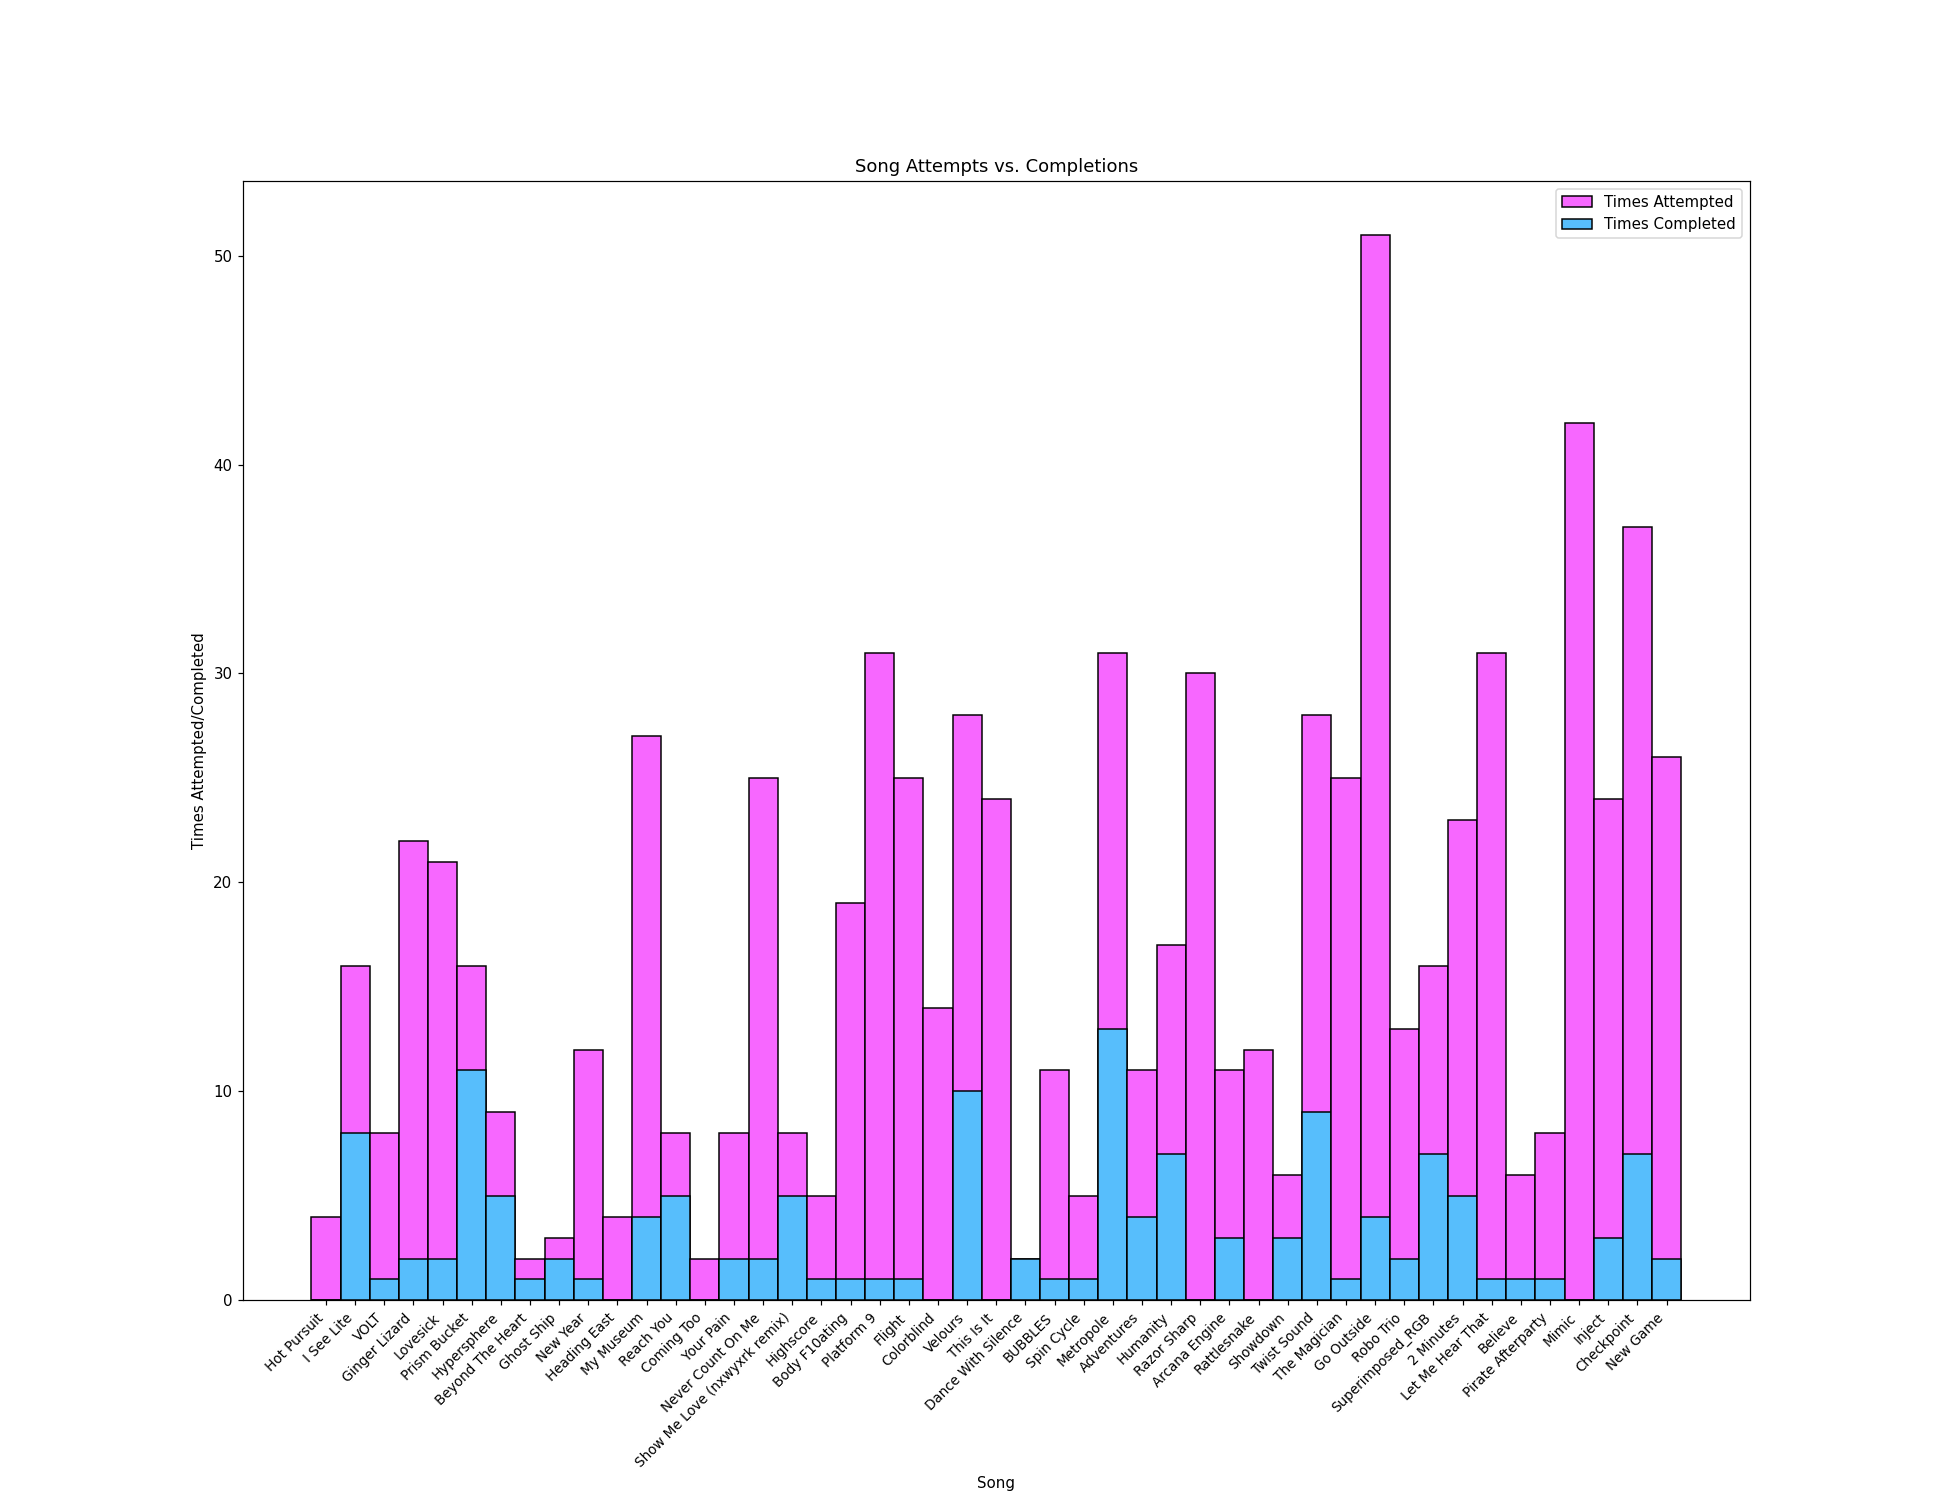
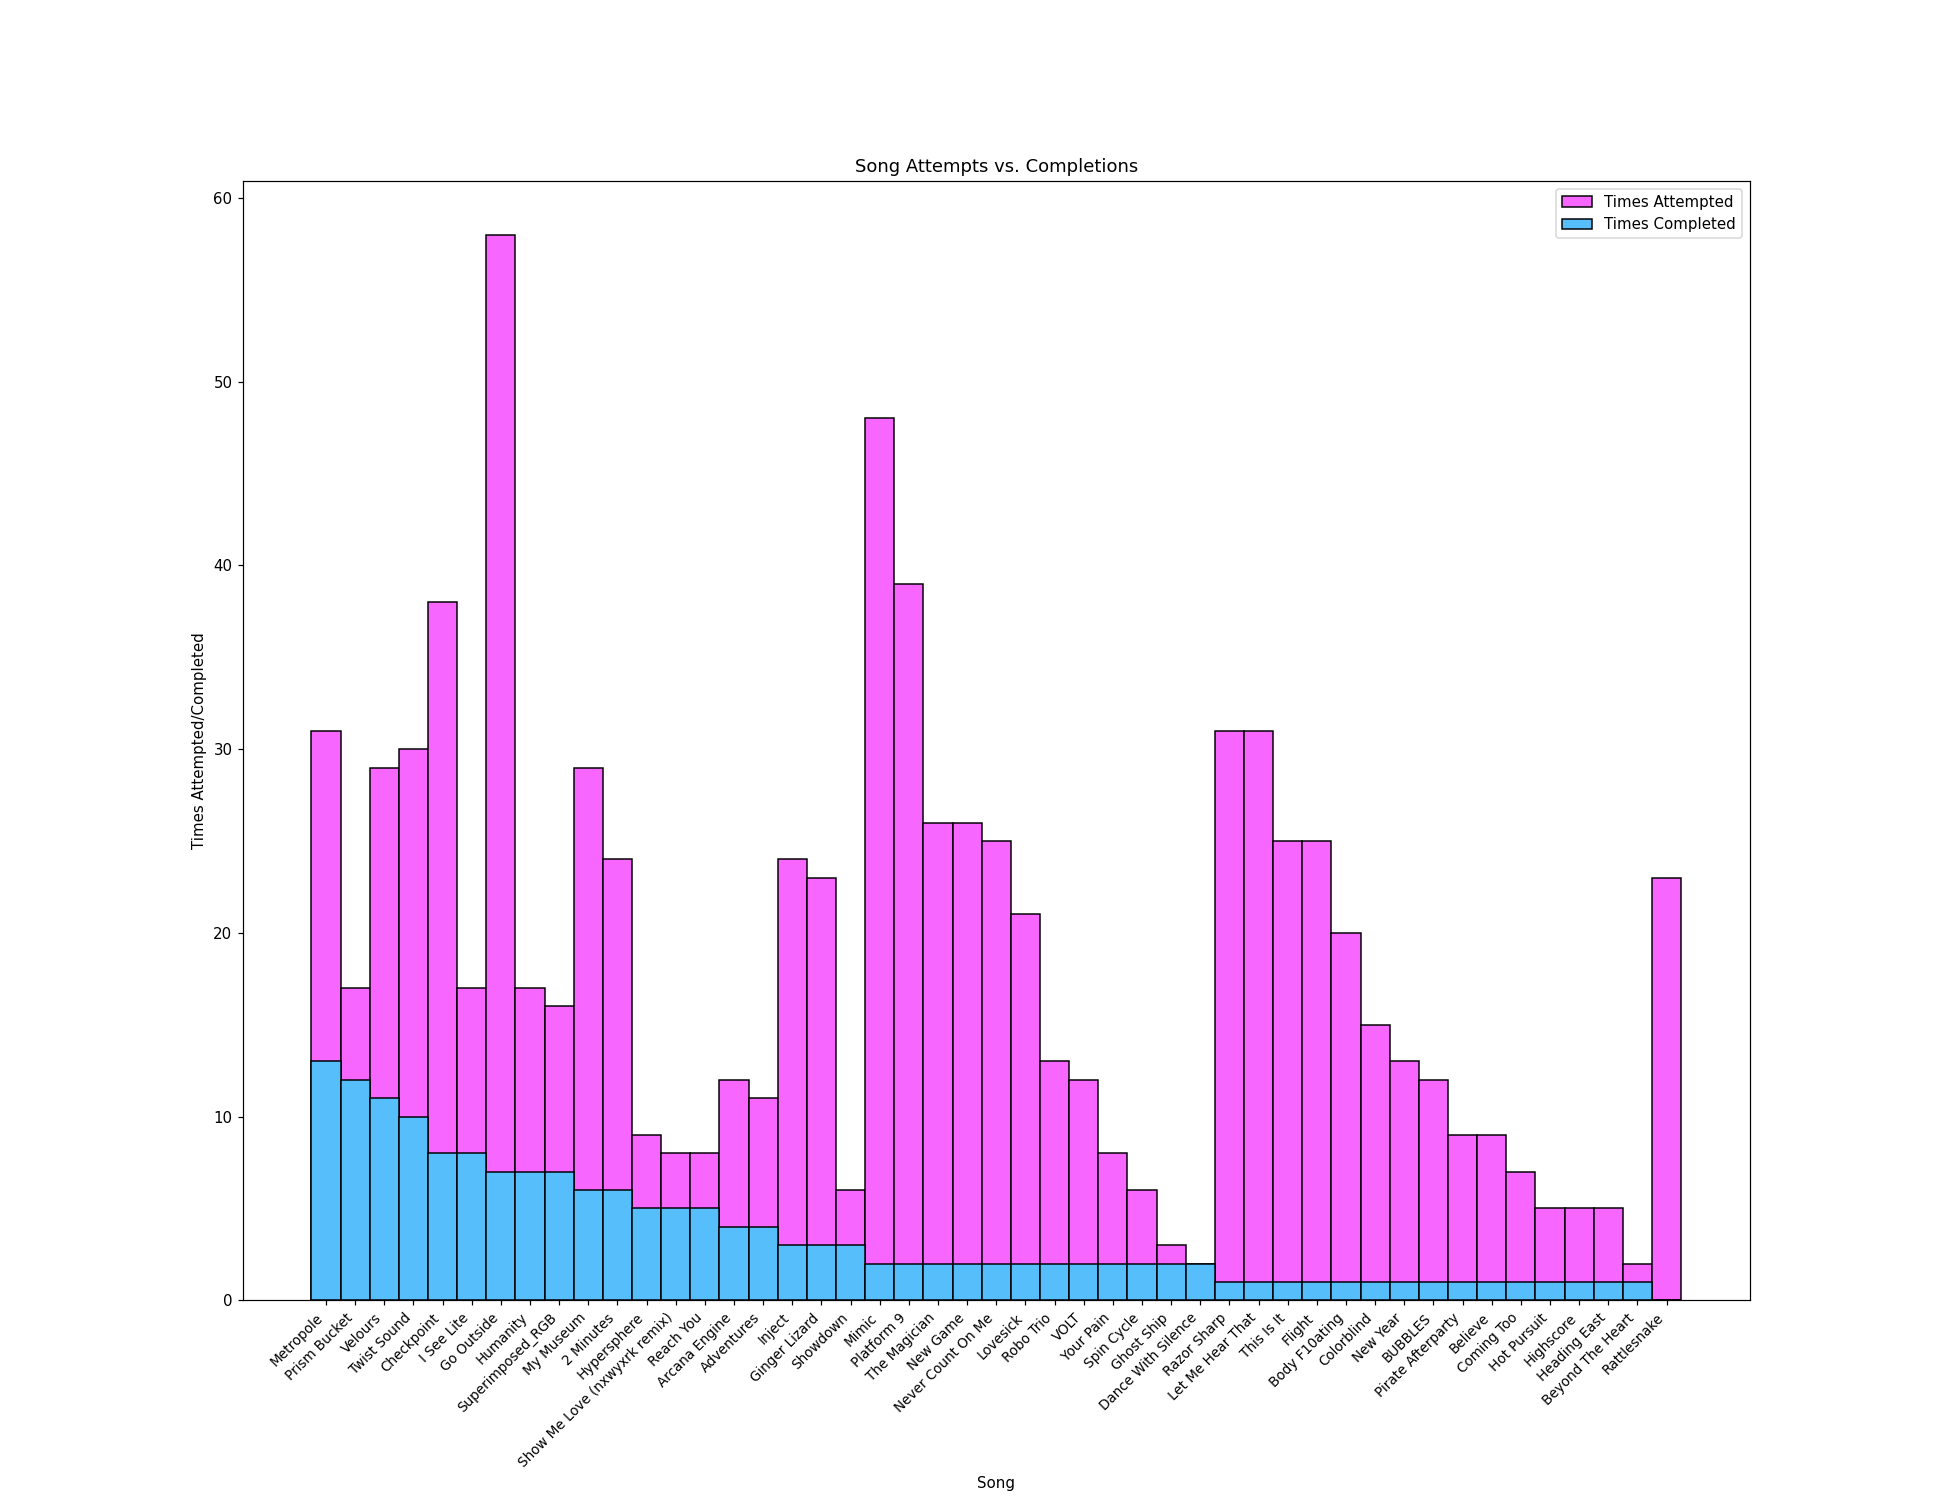
refactored much of the parsing code in order to add the ability to sort the graph by attempts or completions

Changed region(s): [[0.1543, 0.1554, 0.8642, 0.9325]]

diff --git a/templates/index.html b/templates/index.html
@@ -3,17 +3,22 @@
    <body>
       <form action = "" method = "POST"
          enctype = "multipart/form-data">
-         <input type = "file" name = "file" />
+         <input type = "file" name = "file" /><br><br>
          <input type = "radio" id="easy" name="difficulty" value="easy">
-         <label for="easy">Easy</label>
+         <label for="easy">Easy</label><br>
          <input type = "radio" id="medium" name="difficulty" value="medium">
-         <label for="medium">Medium</label>
+         <label for="medium">Medium</label><br>
          <input type = "radio" id="hard" name="difficulty" value="hard">
-         <label for="hard">Hard</label>
+         <label for="hard">Hard</label><br>
          <input type = "radio" id="expert" name="difficulty" value="expert">
-         <label for="expert">Expert</label>
+         <label for="expert">Expert</label><br>
          <input type = "radio" id="XD" name="difficulty" value="XD" checked>
-         <label for="XD">XD</label>
+         <label for="XD">XD</label><br>
+         <p>Sort by: <p>
+         <input type = "radio" id="Attempts" name="sort" value="Attempts" checked>
+         <label for="Attempts">Attempts</label><br>
+         <input type = "radio" id="Completions" name="sort" value="Completions">
+         <label for="Completions">Completions</label><br><br>
          <input type = "submit"/><br>
          <h3>This currently shows your number of song attempts vs. number of completions. More functionality is planned, see <a href="https://github.com/kylefmohr/SpinSave.lol">https://github.com/kylefmohr/SpinSave.lol</a> to report an issue or request a feature!</h3>
          <h3>On Windows, your save file is located at: %USERPROFILE%\AppData\LocalLow\Super Spin Digital\Spin Rhythm XD\(your Steam ID)\savedata.dat </h3>

diff --git a/app.py b/app.py
@@ -33,6 +33,9 @@ def work_with_file():
         difficulty_index = {'easy': 0, 'medium': 1, 'hard': 2, 'expert': 3, 'XD': 4}  # save file records song attempts/completions as a 5 item array
         difficulty = request.values.get('difficulty')
         difficulty_index = difficulty_index[difficulty]
+
+        sort_by = request.values.get('sort')
+
         custom_song_attempts = {}
         regular_song_attempts = {}
         for current_song in song_attempts_data:
@@ -46,38 +49,44 @@ def work_with_file():
                 else:
                     regular_song_attempts[current_song['key']] = current_song['val']
 
-        song_attempts = OrderedDict(sorted(regular_song_attempts.items(), key=lambda t: t[1]))
         plt.ioff()
         width = 1
         my_dpi = 108
 
         fig = plt.figure(figsize=(18, 14), dpi=my_dpi)
 
-
-        song_attempts = json.loads(json.dumps(song_attempts))
+        song_attempts = json.loads(json.dumps(regular_song_attempts))
         song_attempts = dict(song_attempts.items())
         song_attempts = {k: v for k, v in song_attempts.items() if v is not None and v != 0 and v != ''}
         song_attempts = dict(song_attempts.items())
 
-        stats = song_attempts.values()
+        stats = list(song_attempts.values())
+        #stats = sorted(stats[difficulty_index])
+        stats = json.loads(json.dumps(stats))
+        new_stats = {}
+        final_stats = {'song_title': [], 'song_attempts': [], 'song_completions': []}
+        for i in range(len(stats)):
+            new_stats[i] = json.loads(stats[i])
+            new_stats[i] = new_stats[i].values()
+            new_stats[i] = list(new_stats[i])
+            final_stats['song_title'].append(new_stats[i][6][:-6])
+            final_stats['song_attempts'].append(new_stats[i][3][difficulty_index])
+            final_stats['song_completions'].append(new_stats[i][4][difficulty_index])
 
-        for i, current_song in enumerate(stats):
-            current_song = json.loads(current_song)
-            try:  # needed to try/except this after testing this on other users saved data. It wasn't necessary on mine, but multiple other users ran into errors without it
-                current_song_name = current_song["statsUniqueString"][:-6]  # statsUniqueString is usually, for example, "I See Lite_Stats"
-                times_attempted = current_song["timesAttemptedDifficulty"][difficulty_index]
-                times_completed = current_song["timesCompletedDifficulty"][difficulty_index]
-            except KeyError:
-                pass
+        if sort_by == 'Attempts':
+            zipped_lists = zip(final_stats['song_attempts'], final_stats['song_completions'], final_stats['song_title'])  # whichever dict is listed first will be the one that gets sorted
+            sorted_stats = sorted(zipped_lists, reverse=True)
+            tuples = zip(*sorted_stats)
+            song_attempts, song_completions, song_title = [list(t) for t in tuples]
+        elif sort_by == 'Completions':
+            zipped_lists = zip(final_stats['song_completions'], final_stats['song_attempts'], final_stats['song_title'])  # whichever dict is listed first will be the one that gets sorted
+            sorted_stats = sorted(zipped_lists, reverse=True)
+            tuples = zip(*sorted_stats)
+            song_completions, song_attempts, song_title = [list(t) for t in tuples]
+        plt.xticks(rotation=45, ha='right', fontsize=9)
+        plt.bar(song_title, song_attempts, width, color=(0xf7/0xff, 0x67/0xff, 0xff/0xff, 1), edgecolor='black')
+        plt.bar(song_title, song_completions, width, color=(0x57/255, 0xbe/255, 0xfc/255, 1), edgecolor='black')
 
-            print(current_song_name)
-            print(times_attempted)
-            print(times_completed)
-            plt.xticks(rotation=45, ha='right', fontsize=9)
-
-            plt.bar(current_song_name, times_attempted, width, color=(0xf7/0xff, 0x67/0xff, 0xff/0xff, 1), edgecolor='black')
-            # The colors are formatted like that because I had a hexadecimal color value (0xf767ff), but matplotlib wants an RGB decimal value, where 1, 0, 1, would be 0xFF00FF. The last number is the transparency. edgecolor gives the bars an outline
-            plt.bar(current_song_name, times_completed, width, color=(0x57/255, 0xbe/255, 0xfc/255, 1), edgecolor='black')
         plt.gcf().subplots_adjust(bottom=0.14)
         ax = plt.gca()
         ax.set_ylabel('Times Attempted/Completed')
@@ -85,7 +94,7 @@ def work_with_file():
         ax.legend(['Times Attempted', 'Times Completed'])
         ax.set_title('Song Attempts vs. Completions')
         fig.savefig('static/attempts.png', dpi=108)
-        plt.show()
+        #plt.show()
         return redirect('static/attempts.png')
 
 if __name__ == '__main__':
